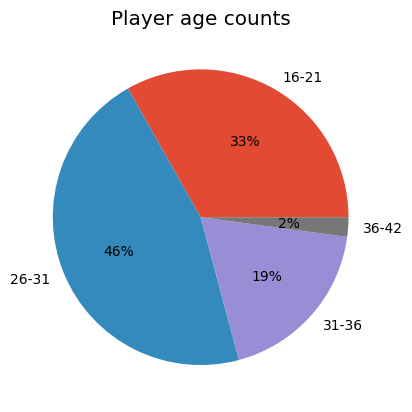
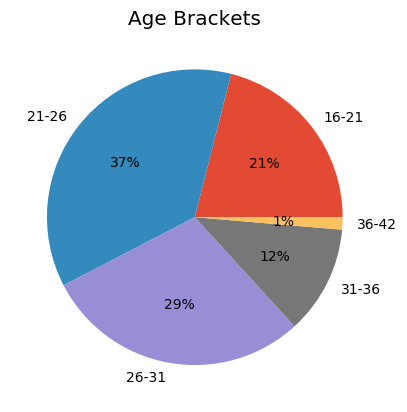
Update pie chart title

diff --git a/templates/dashboard.html b/templates/dashboard.html
@@ -3,7 +3,8 @@
   <head>
     <title>Flask Template Example</title>
     <meta name="viewport" content="width=device-width, initial-scale=1.0">
-    <link href="http://netdna.bootstrapcdn.com/bootstrap/3.0.0/css/bootstrap.min.css" rel="stylesheet" media="screen">
+    <link href="http://netdna.bootstrapcdn.com/bootstrap/3.0.0/css/bootstrap.min.css"
+          rel="stylesheet" media="screen">
     <style type="text/css">
       .container {
         max-width: 500px;

diff --git a/main.py b/main.py
@@ -116,26 +116,22 @@ def plot_age_pie_chart(player_db):
 
     print(f'Youngest age: {youngest_age}; Oldest age: {oldest_age}')
 
-    age_brackets = [21, 26, 31, 36, oldest_age]
+    age_brackets = [youngest_age, 21, 26, 31, 36, oldest_age]
 
     age_counts = OrderedDict()
     for i, age_bracket in enumerate(age_brackets):
 
-        if age_bracket == 21:
-            # first age bracket, use youngest age
-            age_counts[f'{youngest_age}-{age_bracket}'] = len([age for age in ages
-                                                               if youngest_age <= age <= age_bracket])
-        elif i+1 < len(age_brackets):
+        if i+1 < len(age_brackets):
             # ensure there is a age bracket left
             age_counts[f'{age_bracket}-{age_brackets[i+1]}'] = len([age for age in ages
                                                                     if age_bracket <= age <= age_brackets[i+1]])
 
-    print(f'Age counts: {age_counts}')
+    print(f'Age Brackets: {age_counts}')
 
     brackets = age_counts.keys()
     counts = age_counts.values()
 
-    return visual.create_pie_chart(counts, labels=brackets, title='Player age counts',
+    return visual.create_pie_chart(counts, labels=brackets, title='Age Brackets',
                                    save_path='./figures/age_brackets.png')
 
 

diff --git a/visualisation/stats.py b/visualisation/stats.py
@@ -64,7 +64,8 @@ def standard_deviation(target_values):
 
     values_mean = mean(target_values)
     minus_mean_square = [(value - values_mean)**2 for value in target_values]
-    return round(math.sqrt(sum(minus_mean_square) / (len(target_values) - 1)), 3)
+    return round(math.sqrt(sum(minus_mean_square) /
+                           (len(target_values) - 1)), 3)
 
 
 ######################################
@@ -123,10 +124,6 @@ def get_slope(x_list, y_list):
     :rtype: float
     """
 
-    # Ensure each value is a float. Saves the need to do so later.
-    x_list = [float(x) for x in x_list]
-    y_list = [float(y) for y in y_list]
-
     x_sqr = [x ** 2 for x in x_list]
 
     xy = [x * y for x, y in zip(x_list, y_list)]
@@ -142,7 +139,7 @@ def get_slope(x_list, y_list):
 def calculate_least_squares_variables(x_values, y_values):
     """
     Calculates slope and y intersect for line of best fit:
-        y = mx + c, where m = slope, c = y intersect(value of y when x is 0)
+    y = mx + c, where m = slope, c = y intersect(value of y when x is 0)
 
     :param x_values: list of x values used to calculate line of best fit.
     :type x_values: list

diff --git a/visualisation/visual.py b/visualisation/visual.py
@@ -75,7 +75,8 @@ def create_pie_chart(values, labels, title='', save_path=None):
     return fig, ax
 
 
-def create_bar_chart(values, labels, x_label='', y_label='', title='', horizontal=False, save_path=None):
+def create_bar_chart(values, labels, x_label='', y_label='', title='',
+                     horizontal=False, save_path=None):
     """
     Create a bar chart.
 
